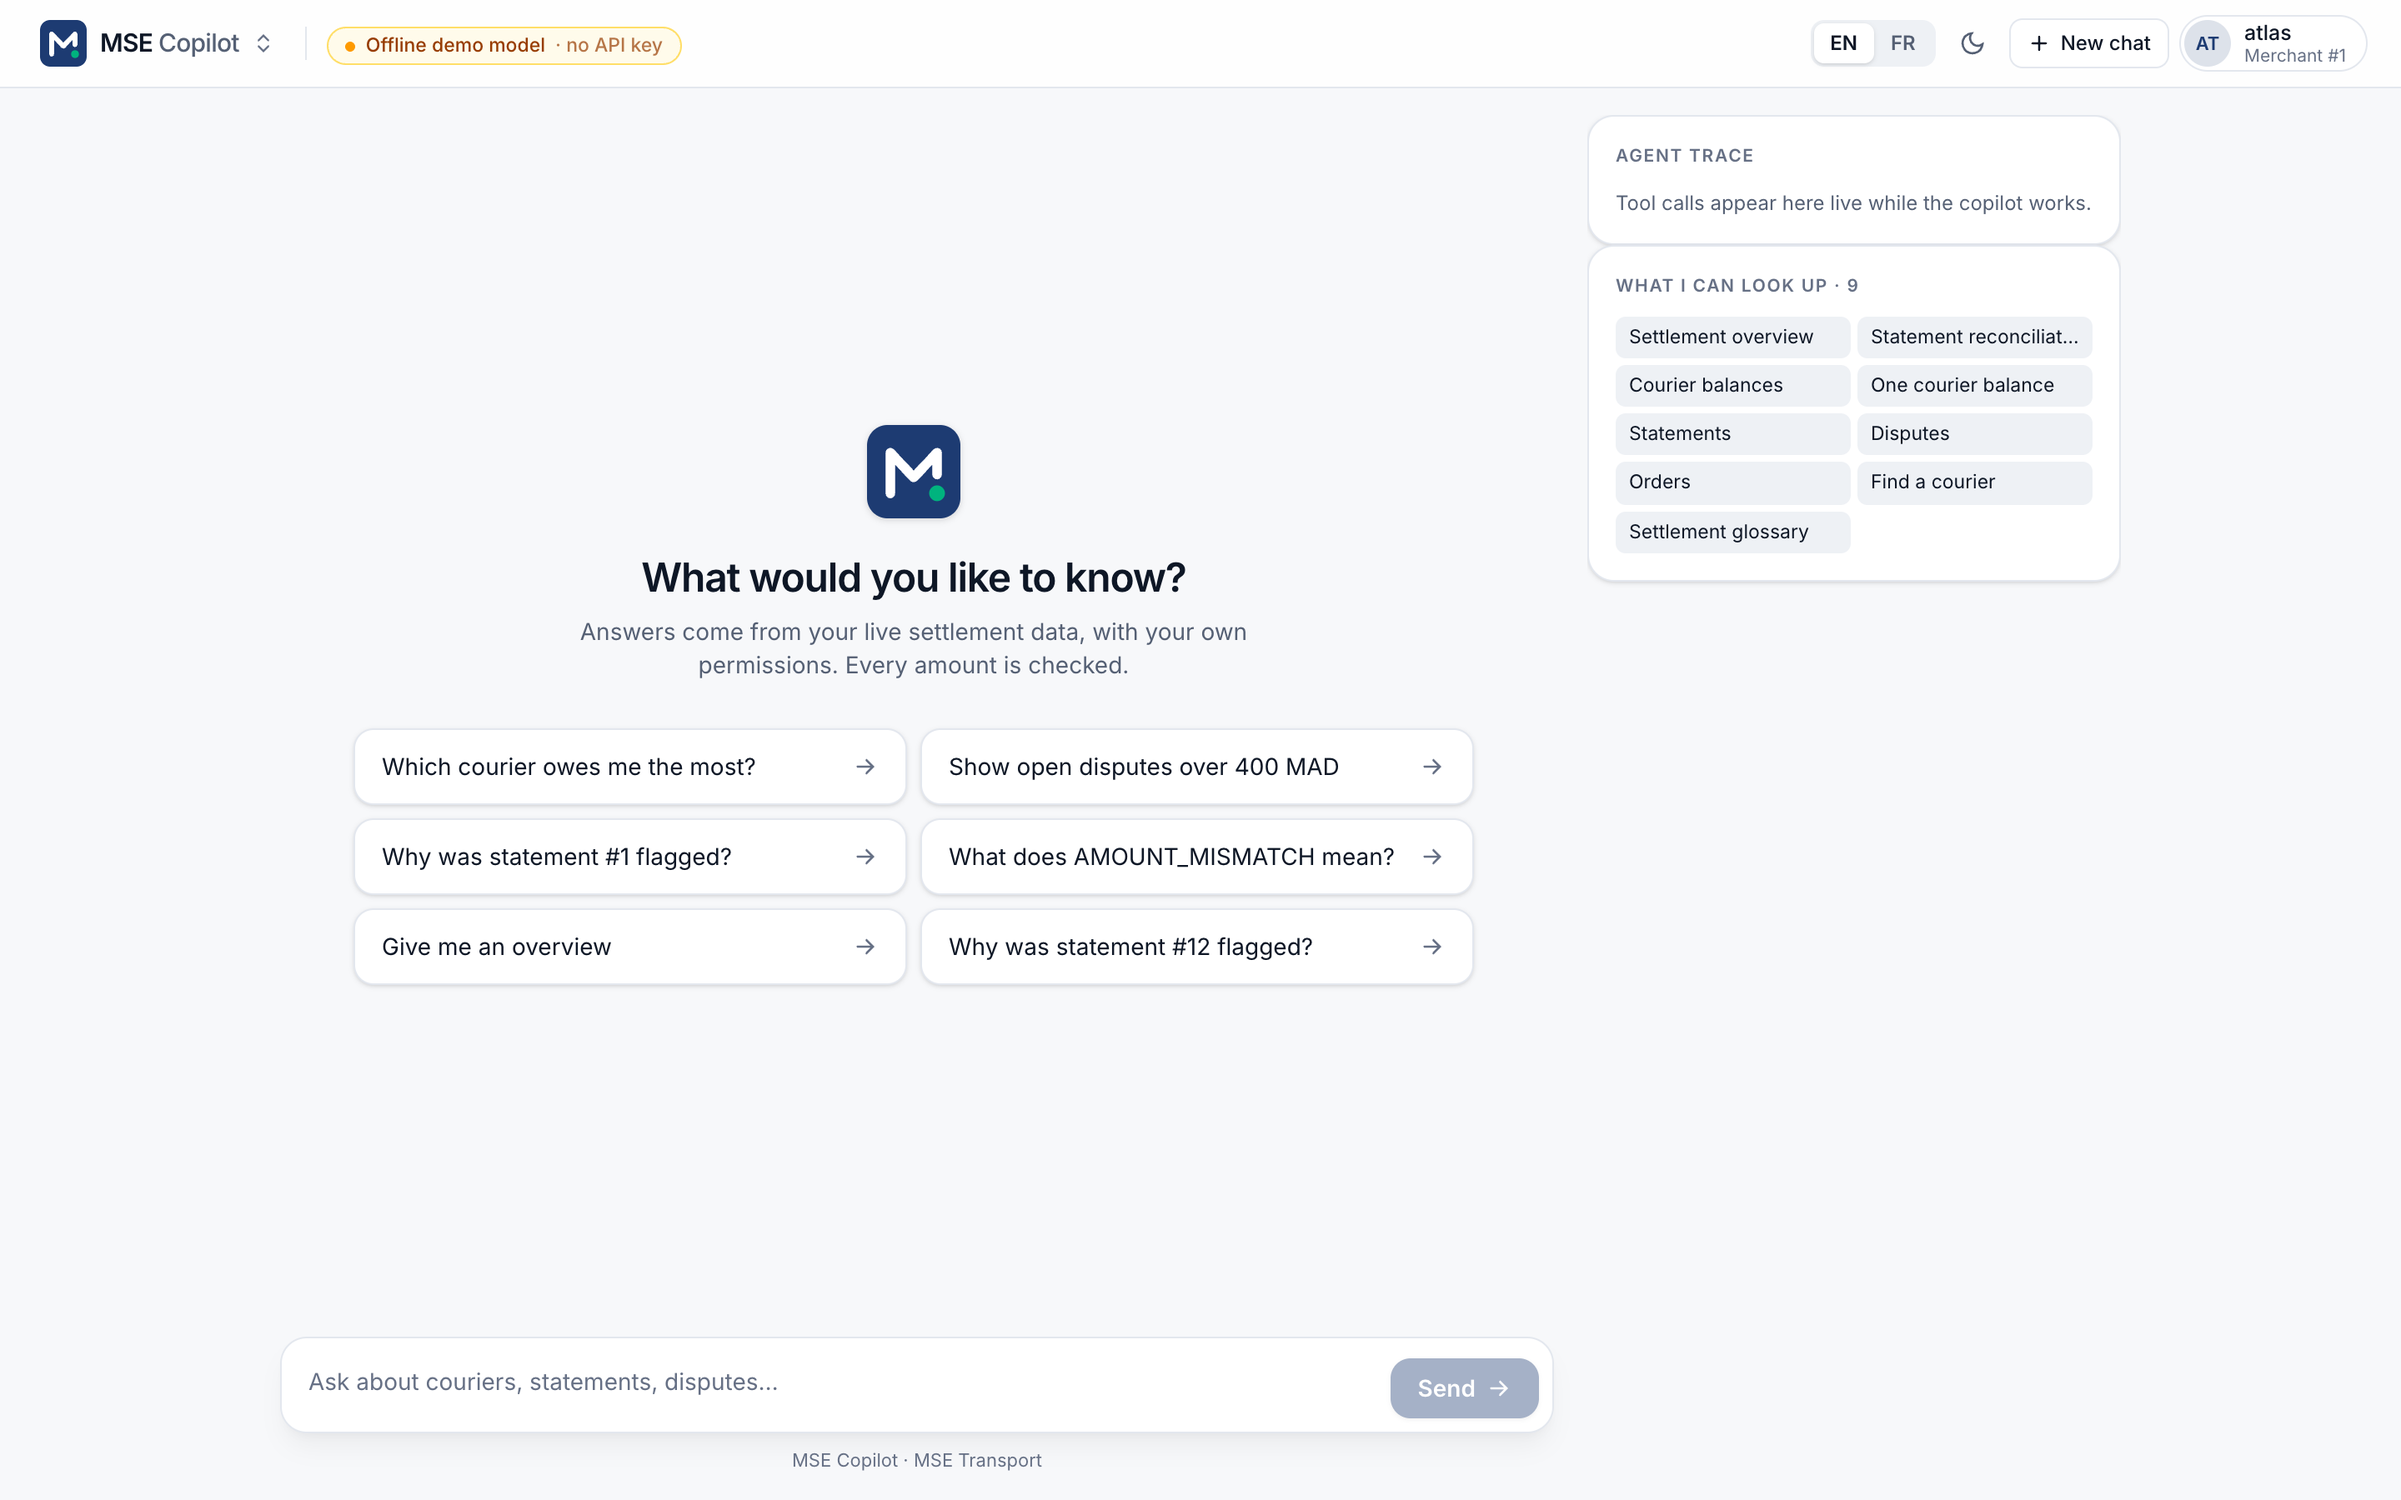
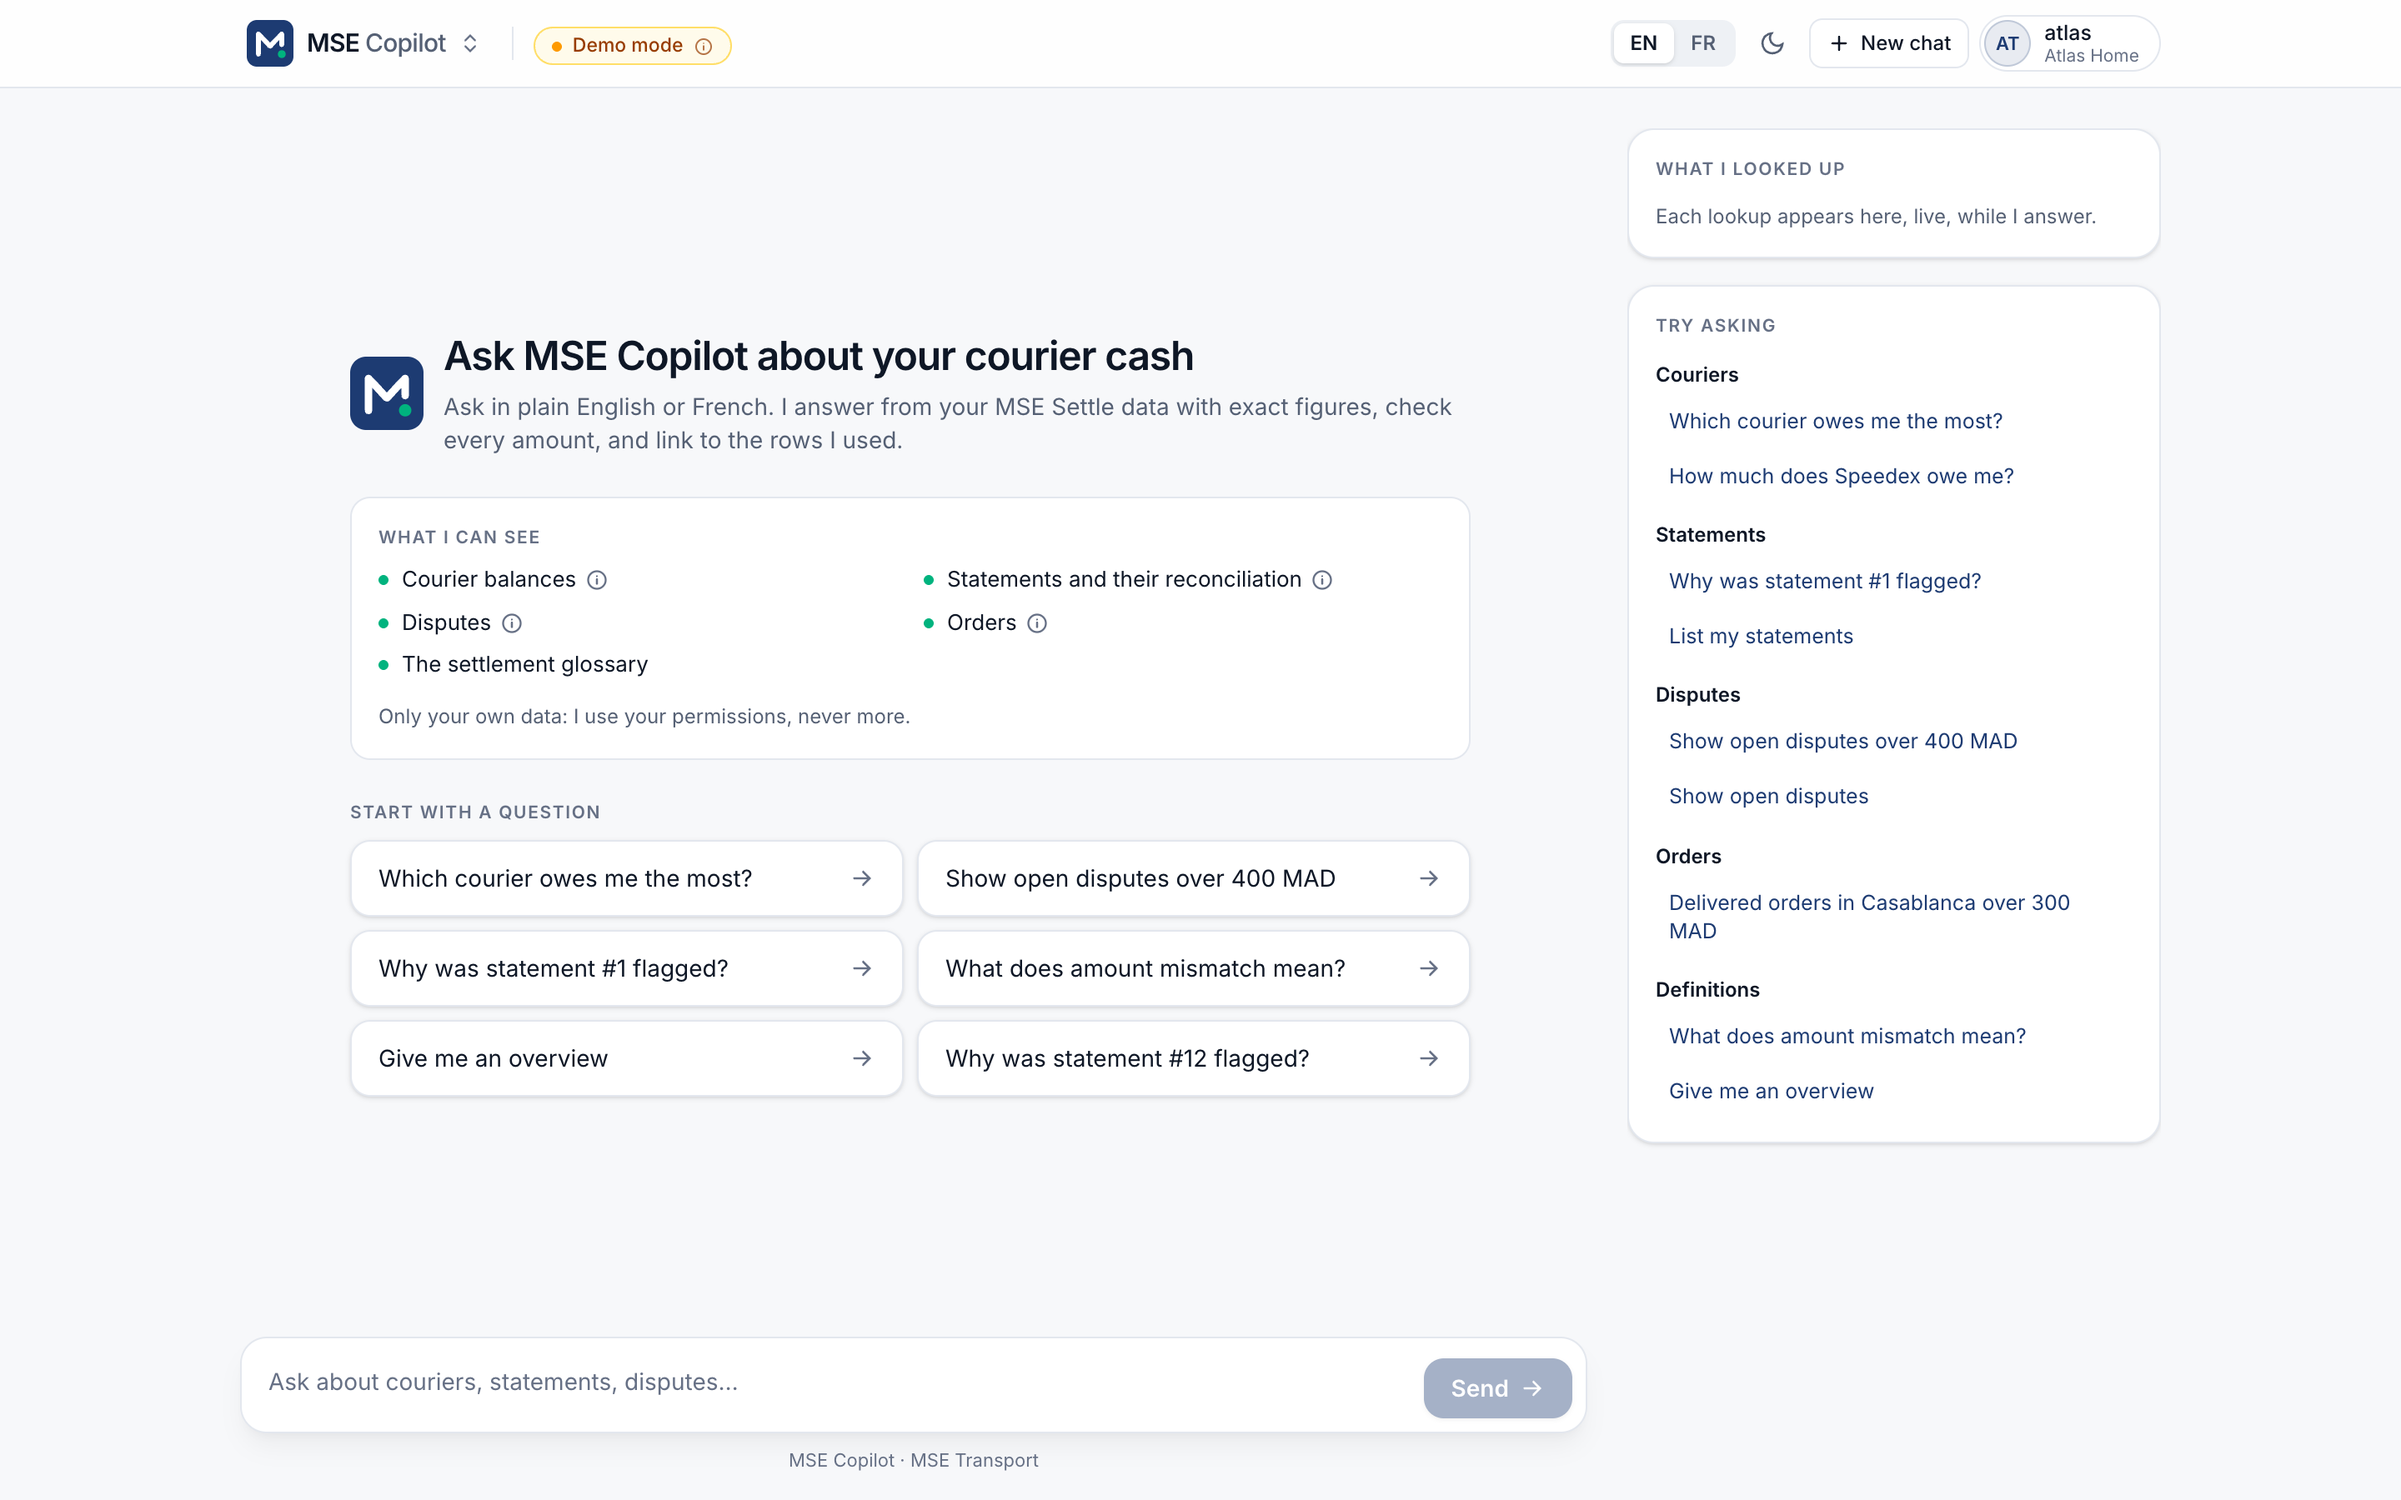
Docs: What is MSE Transport, the 2-minute tour, new screenshots

diff --git a/docs/TOUR.md b/docs/TOUR.md
@@ -1,0 +1,54 @@
+# MSE Copilot: the 2-minute tour
+
+MSE Copilot answers questions about courier cash, from the merchant's MSE Settle data. Start it with
+`docker compose up --build -d` (MSE Settle and its sample data start with it) and open
+http://localhost:3300.
+
+## 1. Sign in
+
+The sample merchant **Atlas Home** (`atlas`) is filled in; click **Sign in**. The **Demo mode** badge
+means answers come from sample data without an AI provider; with an Anthropic API key configured,
+the same app answers with Claude.
+
+![Sign in](screenshots/login.png)
+
+## 2. Start with a question
+
+The first screen says what the copilot is, what data it can see (hover the ⓘ for definitions) and
+offers starter questions. The right panel groups more example questions by topic.
+
+![Welcome](screenshots/welcome.png)
+
+## 3. Ask why a statement was flagged
+
+Click **Why was statement #1 flagged?**. The answer lists the three lines that don't match, with a
+chart of all 14 lines. The right panel shows each lookup in plain words (the technical call is one
+click away) and how many amounts were checked against the data. The statement link opens it in MSE
+Settle.
+
+![Statement explained](screenshots/chat-statement-flagged.png)
+
+## 4. Small answers stay small
+
+**Show open disputes over 400 MAD** finds one dispute: the figure is shown as a number, not as a
+one-bar chart.
+
+![One dispute](screenshots/chat-disputes.png)
+
+## 5. In French, in the dark
+
+Switch to **FR** and ask *Quel livreur me doit le plus ?*: French wording and French number
+formatting. The moon icon switches to dark mode.
+
+![Courier ranking, French](screenshots/chat-courier-ranking-fr.png)
+![Courier ranking, dark](screenshots/chat-courier-ranking-dark.png)
+
+## 6. It only sees your data
+
+Sign out, sign in as **Medina Style** (`medina`) and ask about statement #1: it belongs to another
+merchant, so the copilot says it can't find it, and shows "No matching records" instead of claiming
+anything was verified.
+
+On a wide screen the conversation and the side panel stay centred:
+
+![Wide screen](screenshots/wide-2560.png)

diff --git a/README.md b/README.md
@@ -29,6 +29,38 @@ JUnit 5 · Testcontainers · WireMock · Vitest · Playwright · Docker Compose 
 
 ---
 
+## What is MSE Transport?
+
+MSE Transport is software for **cash-on-delivery (COD) e-commerce in Morocco**: the customer pays the
+courier in cash at the door, and the courier pays the merchant back later. Three products cover the
+whole journey of a parcel and its cash:
+
+```mermaid
+flowchart LR
+    A["Order created<br/><b>MSE Dispatch</b>"] --> B["Courier delivers<br/>and collects cash"]
+    B --> C["Courier sends a<br/>remittance statement (CSV)"]
+    C --> D["Reconciled line by line<br/><b>MSE Settle</b>"]
+    D --> E["Mismatches become<br/>disputes"]
+    D --> F["Questions answered<br/><b>MSE Copilot</b>"]
+    E --> F
+```
+
+- **MSE Dispatch** runs the deliveries: orders, courier assignment, attempts, customer SMS.
+- **MSE Settle** checks the courier's cash: every remittance line against the merchant's orders.
+- **MSE Copilot** answers questions about it in plain English or French, with checked figures.
+
+### Take the 2-minute tour
+
+1. `docker compose up --build -d` (it also starts MSE Settle with sample data), then open http://localhost:3300.
+2. Click **Sign in** as the merchant **Atlas Home** (`atlas`, already filled in).
+3. Click the starter question **Which courier owes me the most?** and watch the right panel: each lookup, in plain words.
+4. Ask **Why was statement #1 flagged?** and click the statement link under the answer: it opens MSE Settle.
+5. Ask **Show open disputes over 400 MAD**, then switch to **FR** and ask *Quel livreur me doit le plus ?*.
+6. Sign out, sign in as **Medina Style** (`medina`) and ask about statement #1: it isn't hers, so the copilot says so.
+7. Account menu → **How it works** shows how Copilot fits with Dispatch and Settle.
+
+The same tour with screenshots: [`docs/TOUR.md`](docs/TOUR.md).
+
 ## The problem
 
 Merchants and finance teams using MSE Settle have their answers in the data (courier balances,
